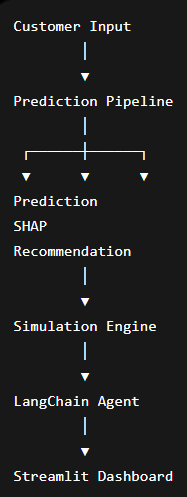
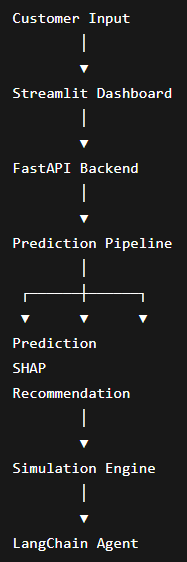
docker

diff --git a/README.md b/README.md
@@ -415,6 +415,57 @@ The interface provides a business-friendly view of model predictions and recomme
 
 ---
 
+## FastAPI Backend
+
+A production-ready FastAPI backend was developed to expose the churn prediction system through REST APIs.
+
+### Available Endpoints
+
+#### POST /pipeline
+
+Runs the complete prediction pipeline and returns:
+
+- churn prediction
+- SHAP explanations
+- recommendations
+
+#### POST /analyze
+
+Runs the LangChain agent and returns:
+
+- business summary
+- simulation results
+- prioritized retention actions
+
+### Interactive Documentation
+
+FastAPI automatically generates Swagger documentation available at:
+
+http://localhost:8000/docs
+
+---
+
+## Docker Deployment
+
+The FastAPI backend was containerized using Docker.
+
+### Benefits
+
+- Reproducible deployment
+- Environment consistency
+- Easier cloud deployment
+- Simplified CI/CD integration
+
+### Build
+
+docker build -t churn-api .
+
+### Run
+
+docker run -p 8000:8000 churn-api
+
+---
+
 ## Technologies Used
 
 ### Machine Learning
@@ -446,26 +497,23 @@ The interface provides a business-friendly view of model predictions and recomme
 - Streamlit
 - Plotly
 
+### Backend
+
+- FastAPI
+- Uvicorn
+
+### Containerization
+
+- Docker
+
 ---
 
 ## Future Improvements
 
 Potential future improvements include:
 
-### Application Layer
-
-- FastAPI deployment
-- Interactive dashboards
-
-### AI Improvements
-
-- Automated simulation of top SHAP features
-- Multi-scenario optimization
-- More advanced recommendation ranking
-
 ### MLOps
 
-- Dockerization
 - CI/CD pipeline
 - Cloud deployment
 - Model monitoring
